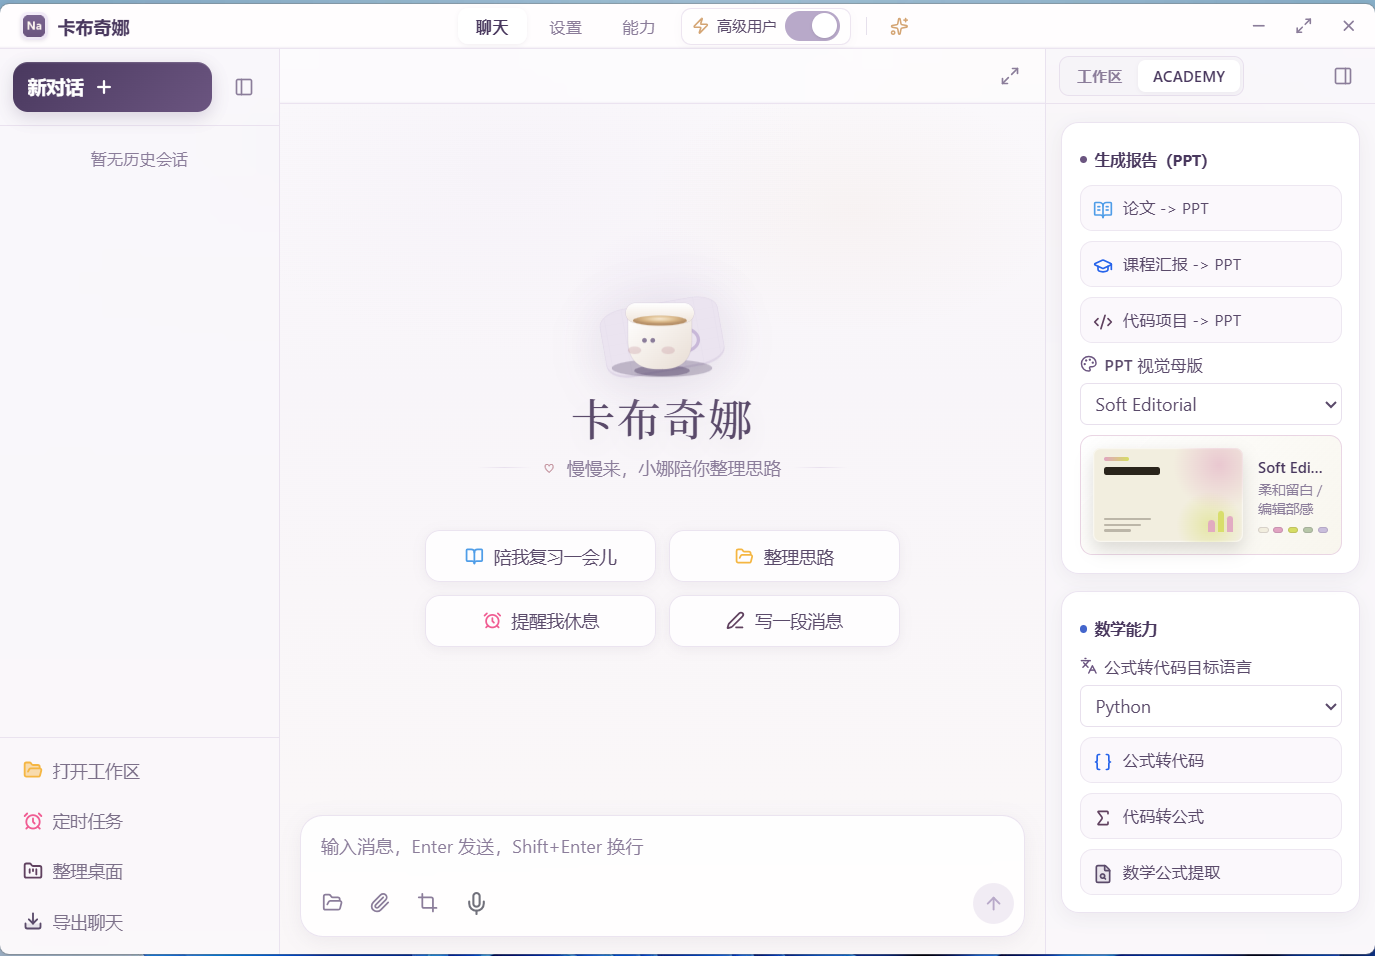
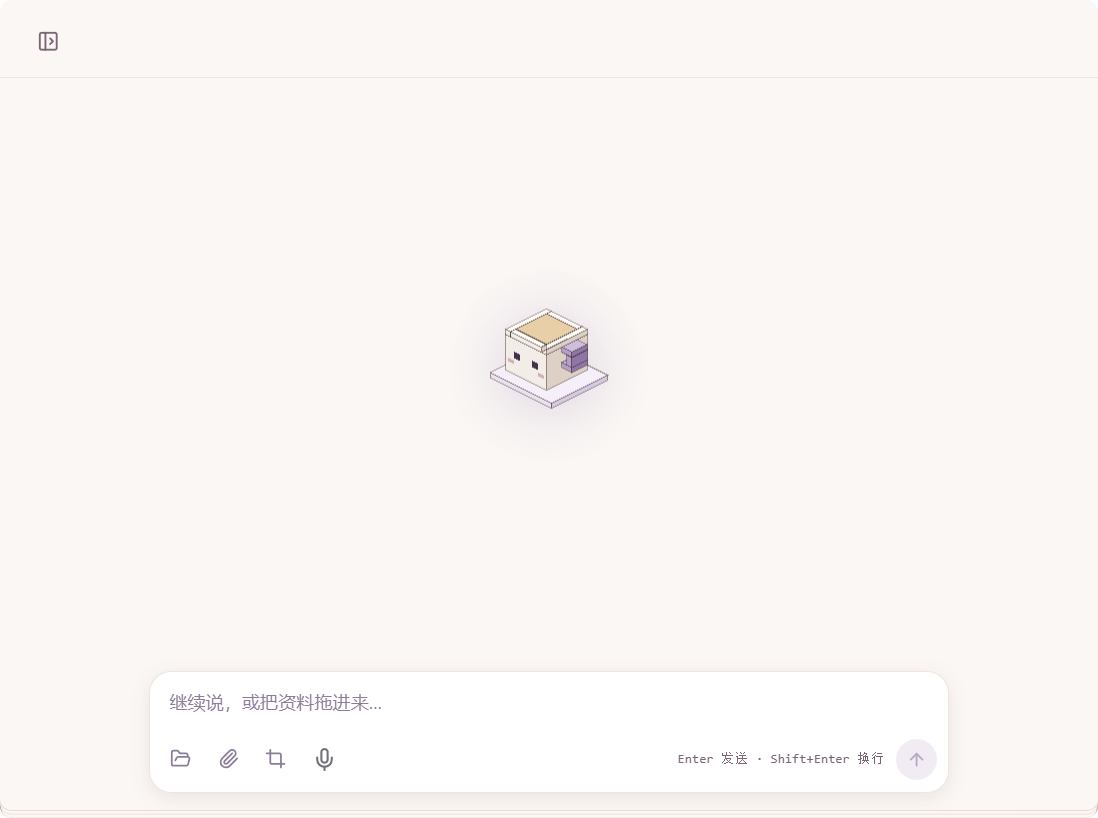
chore: remove nav links without corresponding sections

diff --git a/src/components/AboutNavbar.tsx b/src/components/AboutNavbar.tsx
@@ -17,8 +17,6 @@ export default function AboutNavbar({ page = 'home', locale = 'zh', onLocaleChan
 
   const navLinks = page === 'home'
     ? [
-        { label: '产品', href: '#product' },
-        { label: '工作流', href: '#workflow' },
         { label: '能力', href: '#capabilities' },
         { label: '开源与安全', href: '#trust' },
         { label: '关于公司', href: aboutHref, current: false },
@@ -28,14 +26,12 @@ export default function AboutNavbar({ page = 'home', locale = 'zh', onLocaleChan
           { label: 'Kabuqina', href: homePrefix },
           { label: 'Capabilities', href: `${homePrefix}#capabilities` },
           { label: 'Scenarios', href: `${homePrefix}#scenarios` },
-          { label: 'Download', href: `${homePrefix}#download` },
           { label: 'About', href: aboutHref, current: true },
         ]
       : [
           { label: '卡布奇娜', href: homePrefix },
           { label: '能力', href: `${homePrefix}#capabilities` },
           { label: '场景', href: `${homePrefix}#scenarios` },
-          { label: '下载', href: `${homePrefix}#download` },
           { label: '关于我们', href: aboutHref, current: true },
         ]
 

diff --git a/src/pages/About.tsx b/src/pages/About.tsx
@@ -259,7 +259,7 @@ export default function About() {
             <figure className="about2-product__screen">
               <div className="about2-product__chrome"><div><i /><i /><i /></div><span>KABUQINA / DESKTOP</span><span>01</span></div>
               <div className="about2-product__image">
-                <img src="/app-screenshot.png" alt={copy.screenshotAlt} width={1375} height={956} loading="lazy" decoding="async" />
+                <img src="/app-screenshot.png" alt={copy.screenshotAlt} width={1098} height={818} loading="lazy" decoding="async" />
               </div>
               <figcaption>
                 <img src="/kabuqina_logo_48.png" alt="" />

diff --git a/src/components/Navbar.tsx b/src/components/Navbar.tsx
@@ -4,7 +4,6 @@ import { Menu, X, Github } from 'lucide-react';
 const navLinks = [
   { label: '能力', href: '#capabilities' },
   { label: '场景', href: '#scenarios' },
-  { label: '下载', href: '#download' },
   { label: '关于公司', href: './about.html' },
   { label: '文档', href: 'https://github.com/Kabuqina/Kabuqina' },
 ];
